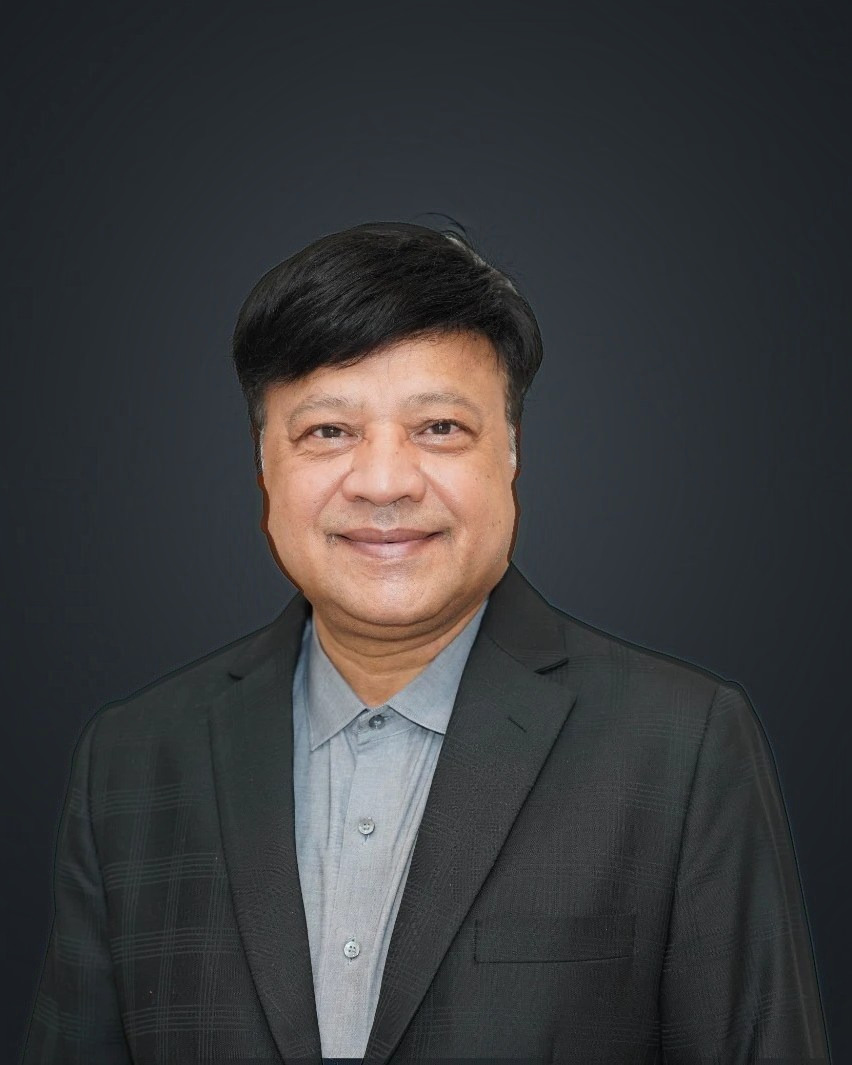
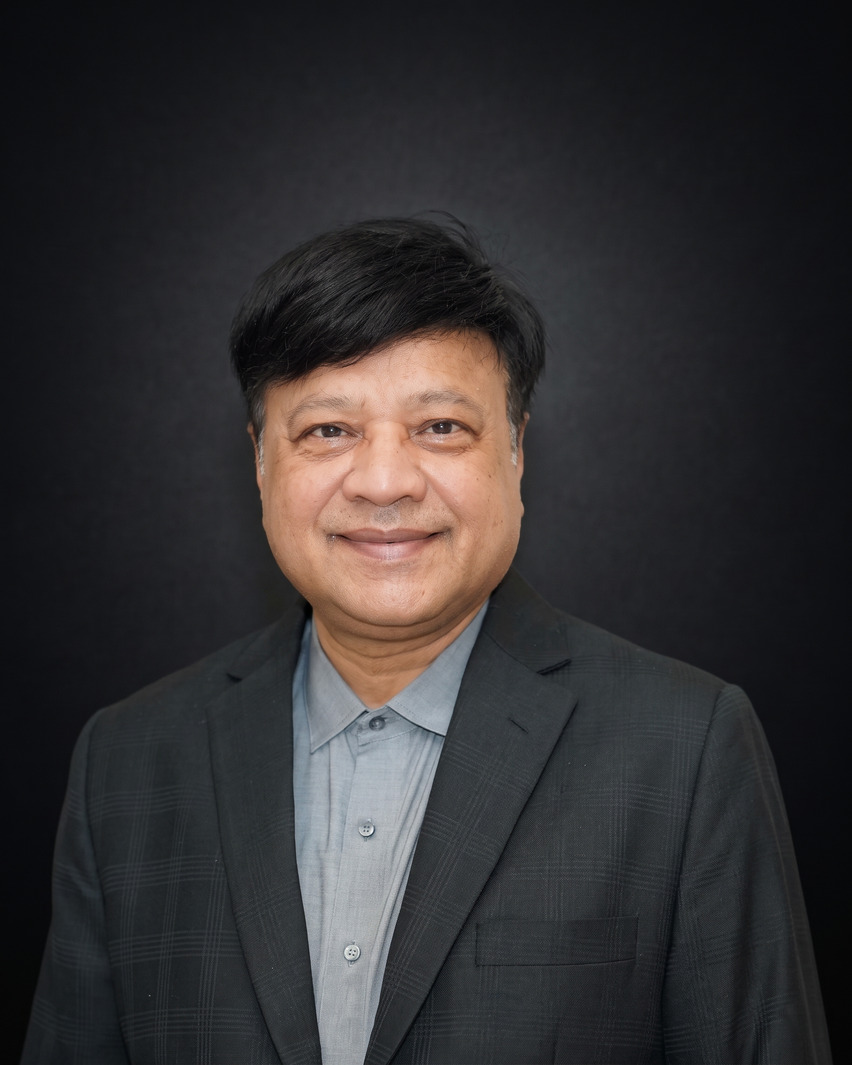
Use the Gemini dark backdrop portrait on About us
Gemini returned 1856x2304, larger than the photo we had. Its sparkle
watermark sat on his shoulder, too close to the edge to crop out without
cutting into him, so the damaged band was rebuilt from the clean rows
above and below, shifted to follow the shoulder line, which keeps the
edge and the weave intact. Cropped to an exact 4:5 by taking 6 px off
the left and 7 off the right, and a 1280 wide source added since the
new master allows it. URLs bumped to v=5.

diff --git a/index.html b/index.html
@@ -215,7 +215,7 @@
     <p class="label">About us</p>
 
     <figure class="mdphoto">
-      <picture><source srcset="assets/img/director-tall-426.webp?v=4 426w, assets/img/director-tall-640.webp?v=4 640w, assets/img/director-tall.webp?v=4 852w" type="image/webp" sizes="(max-width:840px) 92vw, 34vw"><img src="assets/img/director-tall.jpg?v=4" alt="Rajendra Agarwal, Managing Director of Raghupati Wires India Private Limited (Rama Winding Wires)" width="852" height="1065" loading="lazy" decoding="async"></picture>
+      <picture><source srcset="assets/img/director-tall-426.webp?v=5 426w, assets/img/director-tall-640.webp?v=5 640w, assets/img/director-tall.webp?v=5 852w, assets/img/director-tall-1280.webp?v=5 1280w" type="image/webp" sizes="(max-width:840px) 92vw, 34vw"><img src="assets/img/director-tall.jpg?v=5" alt="Rajendra Agarwal, Managing Director of Raghupati Wires India Private Limited (Rama Winding Wires)" width="852" height="1065" loading="lazy" decoding="async"></picture>
     </figure>
 
     <div class="about-side">
